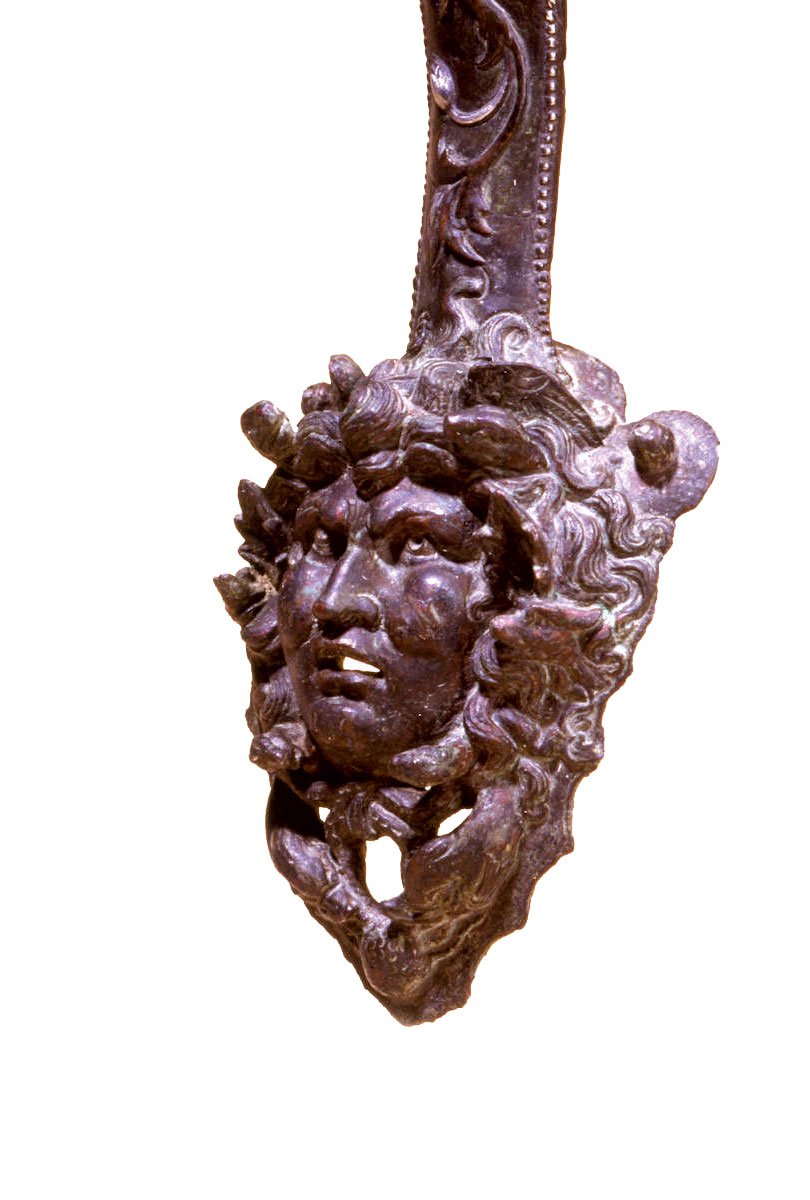
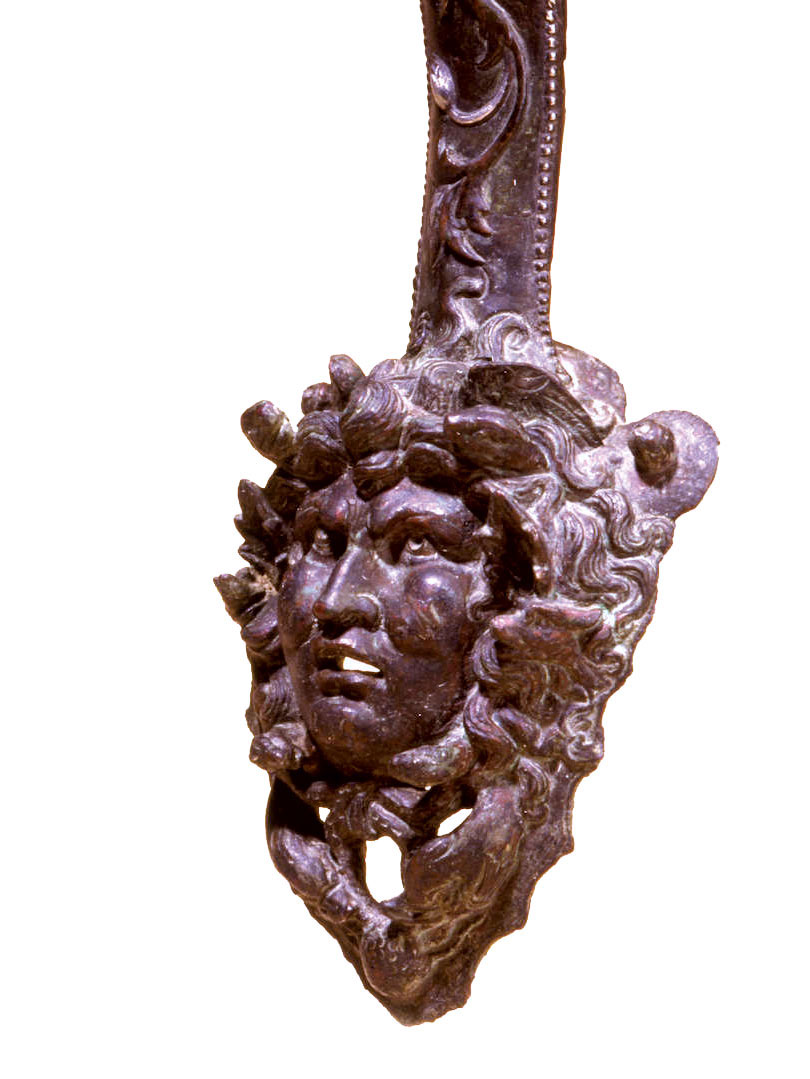
Adjust image placements

Changed region(s): [[0.2469, 0.0, 0.8951, 0.9481]]

diff --git a/content/vessels/27-dedecker.md b/content/vessels/27-dedecker.md
@@ -54,7 +54,7 @@ Another interesting bronze is the Triton and hippocampus statuette group in the 
 
 The next significant example of a bronze vessel handle is again in the J. Paul Getty Museum,[^31] formerly part of the Fleischman Collection. It shows a young woman, perhaps a Tritoness or Scylla (depicted without dogs), which lies above an enlarged face of an old Triton. She holds a rudder in her right hand and appears peaceful; her long hair is parted in the middle, and she is wearing a simple crown or a hair band. She is naked save for a skirt made of long acanthus leaves that ends in a curved, hook-like fishtail. Crab claws typical of pereiopods reach out from underneath Triton’s thick hair; his face is covered in seaweed, his mouth is agape, with two dolphins beneath the chin; the eyes and fins along the jaw are made in silver inlay. This is a manifestation of a solemn or philosophical Triton and can be dated from the late first century BC to the early first century AD.[^32]
 
-{{< q-figure id="27.4" class="float-right" >}}
+{{< q-figure id="27.4" class="float-right" pdf="one-column" >}}
 
 Another handle belonging to Tassinari’s Pompeian Type B 1222,[^33] in the Archaeological Museum in Naples, is from Herculaneum ([fig. 27.4](#fig-27-4)).[^34] The length of the handle is decorated in low relief, with a face peering through acanthus leaves, then an unfurling scroll of acanthus leaves from the side, with a bordering bead pattern. The lower attachment, in high relief, bears a mask of a sea god; there are two wings in his tousled hair, with snakes, dogs, and coiled serpents in three sets above. He has mussel ears, silver-encrusted eyes, a seaweed-covered face, an open mouth, inlaid silver teeth, and a chin ending in a knotted serpent’s tail. Below this on the left and right are dolphins holding an octopus in the center with their open mouths.[^35] The composition in high relief is an open work and the surface is not continuous; these details are characteristic for the period from the second half of the first century BC to the middle of the first century AD.[^36]
 
@@ -68,7 +68,7 @@ Still another jug, also belonging to Type B 1222, comes from Pompeii I 9.5, the 
 
 ## Conclusion
 
-{{< q-figure id="27.6" >}}
+{{< q-figure id="27.6" class="float-right" pdf="one-column" >}}
 
 {{< q-figure id="27.7" class="float-right" >}}
 
